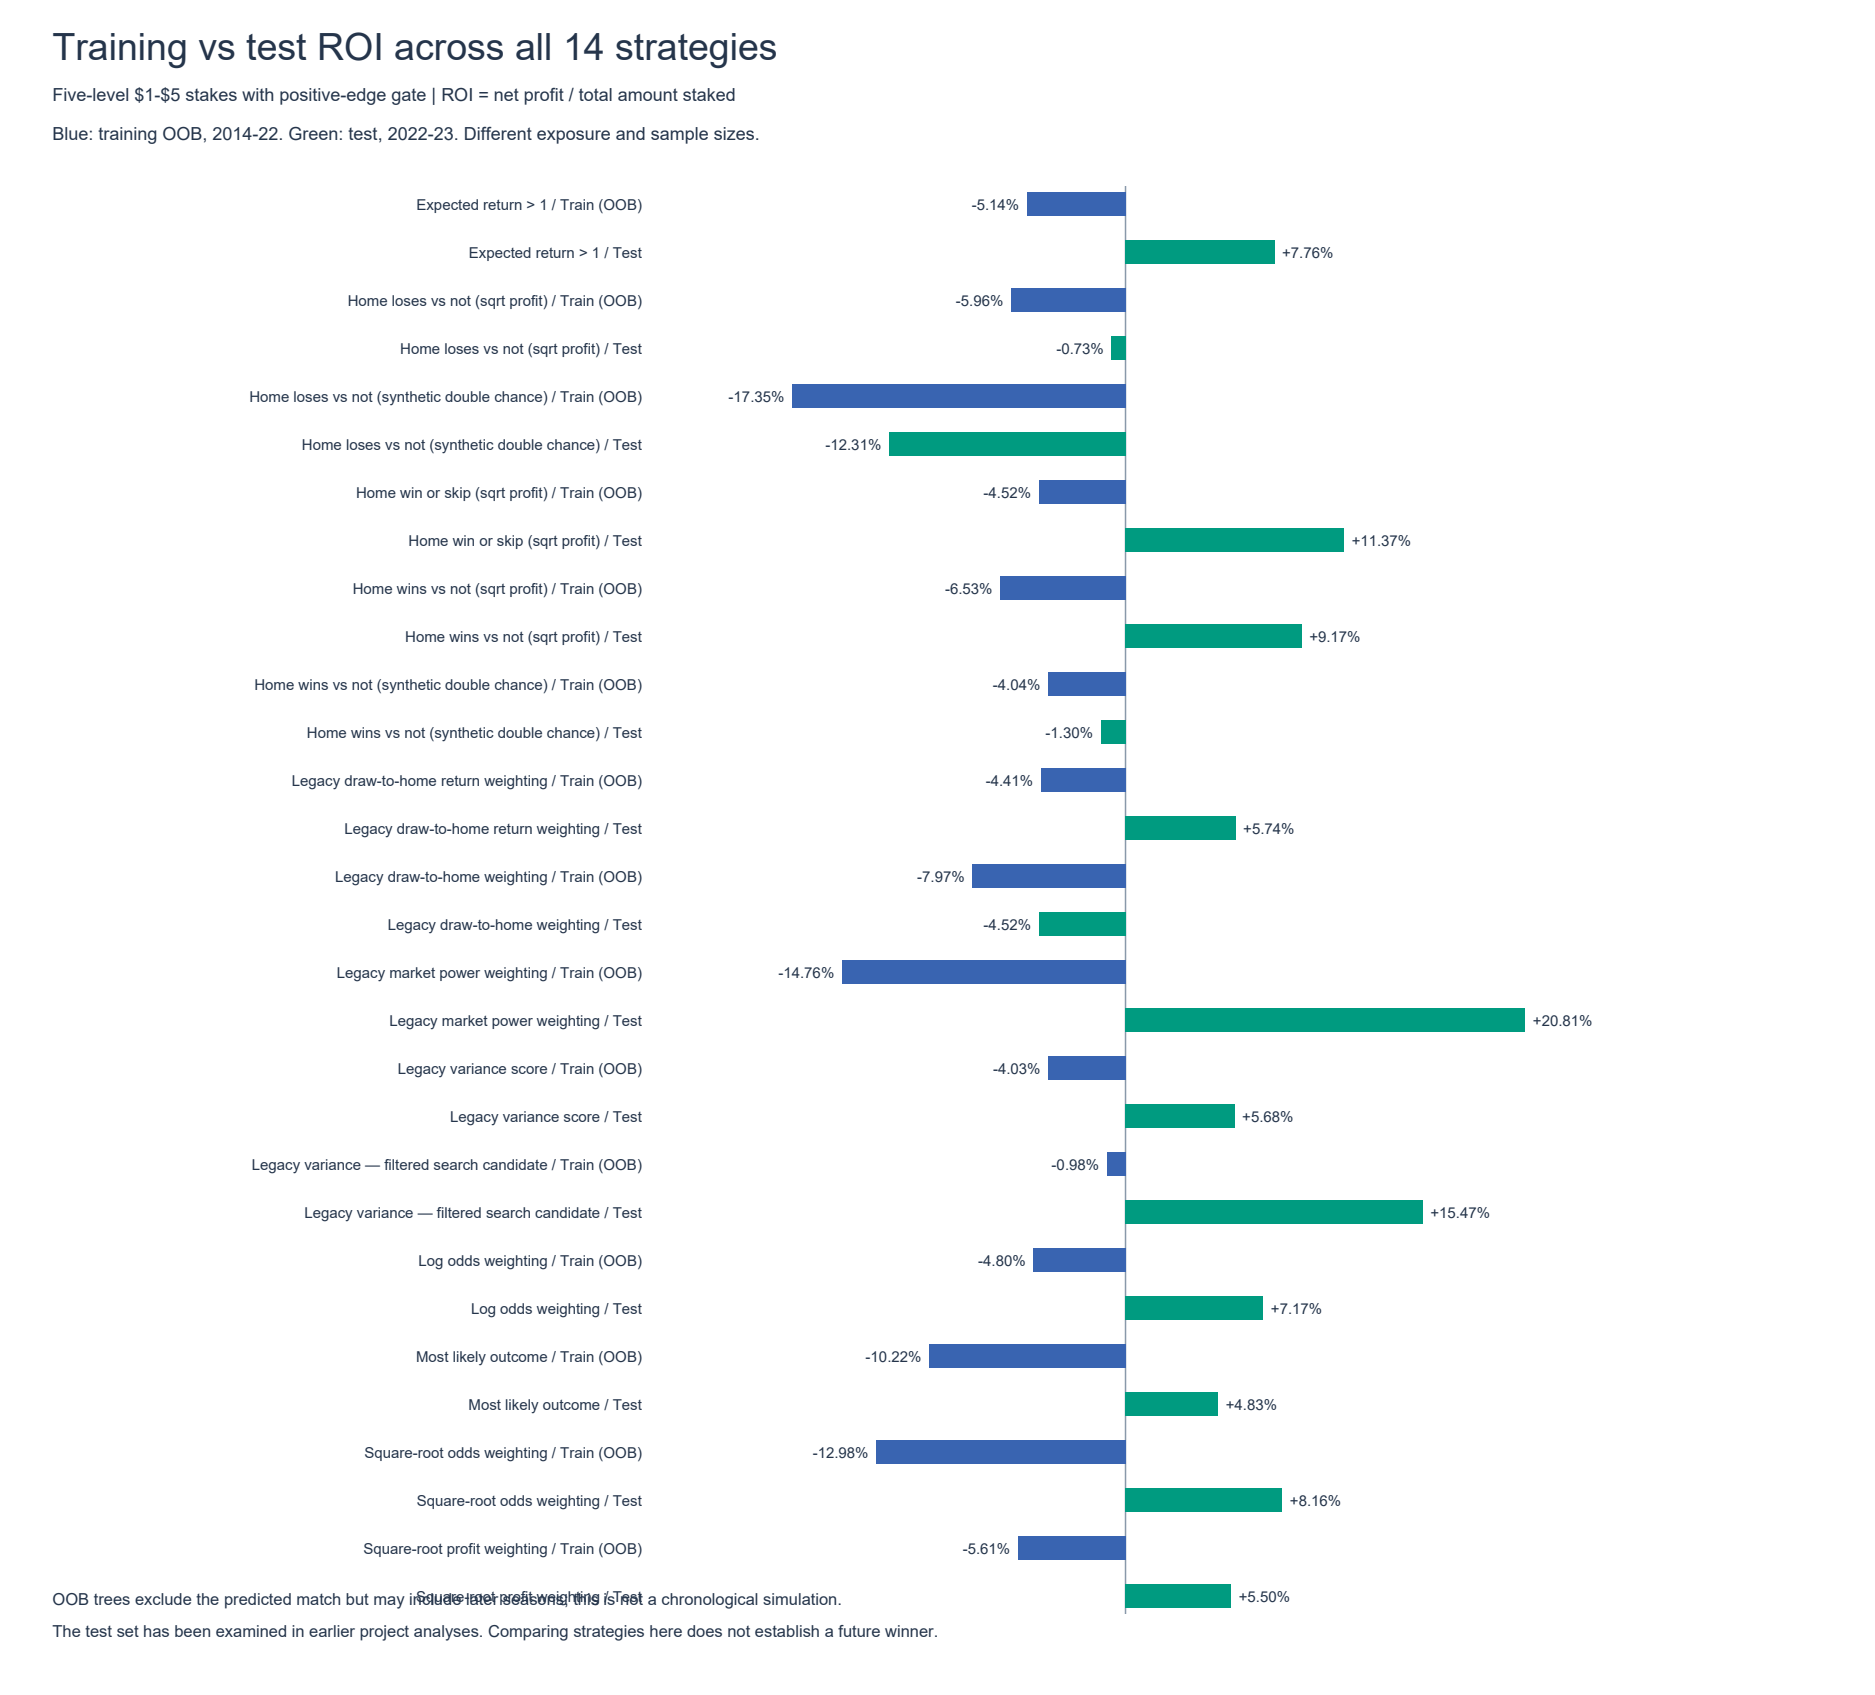
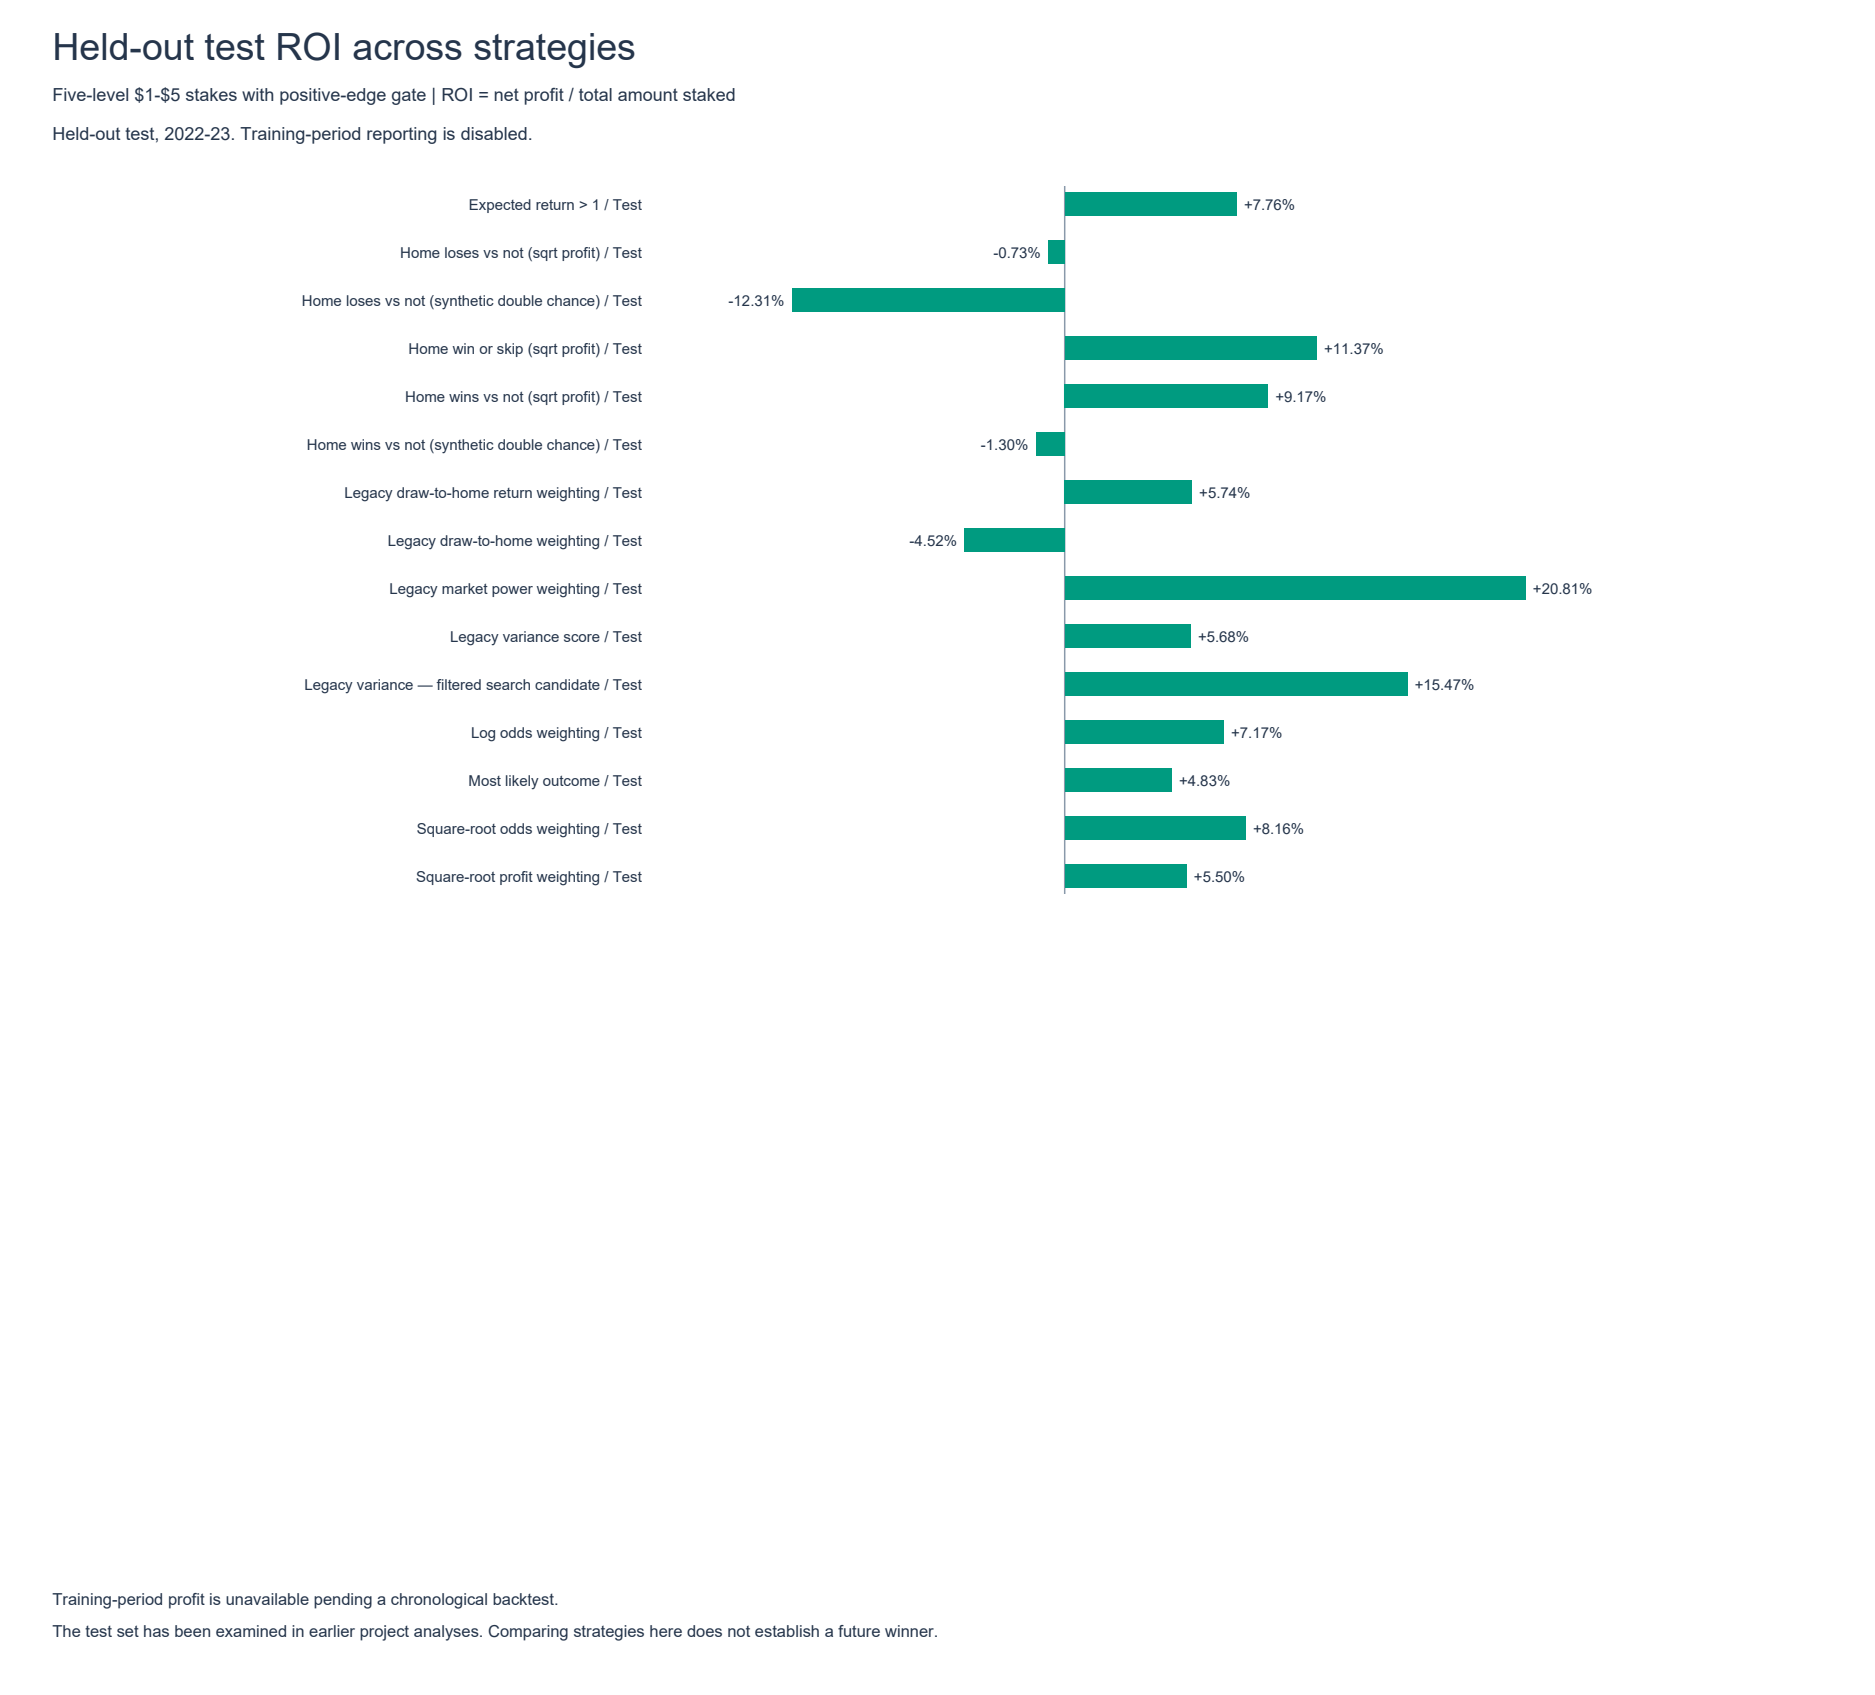
more stuff

diff --git a/README.md b/README.md
@@ -1,5 +1,13 @@
 # Football score prediction and betting backtests
 
+**Current evaluation policy:** OOB-based training profit reporting and the old
+strategy-search endpoint are retired. Active ledgers, CSVs, manual-filter results
+and profit curves contain held-out test matches only. Training-period profit is
+unavailable until chronological predictions are built. Earlier search files are
+retained as historical artifacts, not active validation; their reproduction
+command is disabled. Existing model training and live inference are unchanged.
+Older descriptions below of training OOB reports refer to that retired workflow.
+
 Predict home and away football goals, convert the score predictions into match-outcome probabilities, and compare betting decision rules on recorded odds.
 
 The current experiment compares two separate random forests, a single **2,000-tree multi-output random forest**, and a bivariate Poisson calibration layer. It also examines where predictions fail and whether probability-based betting rules produce positive historical returns.
